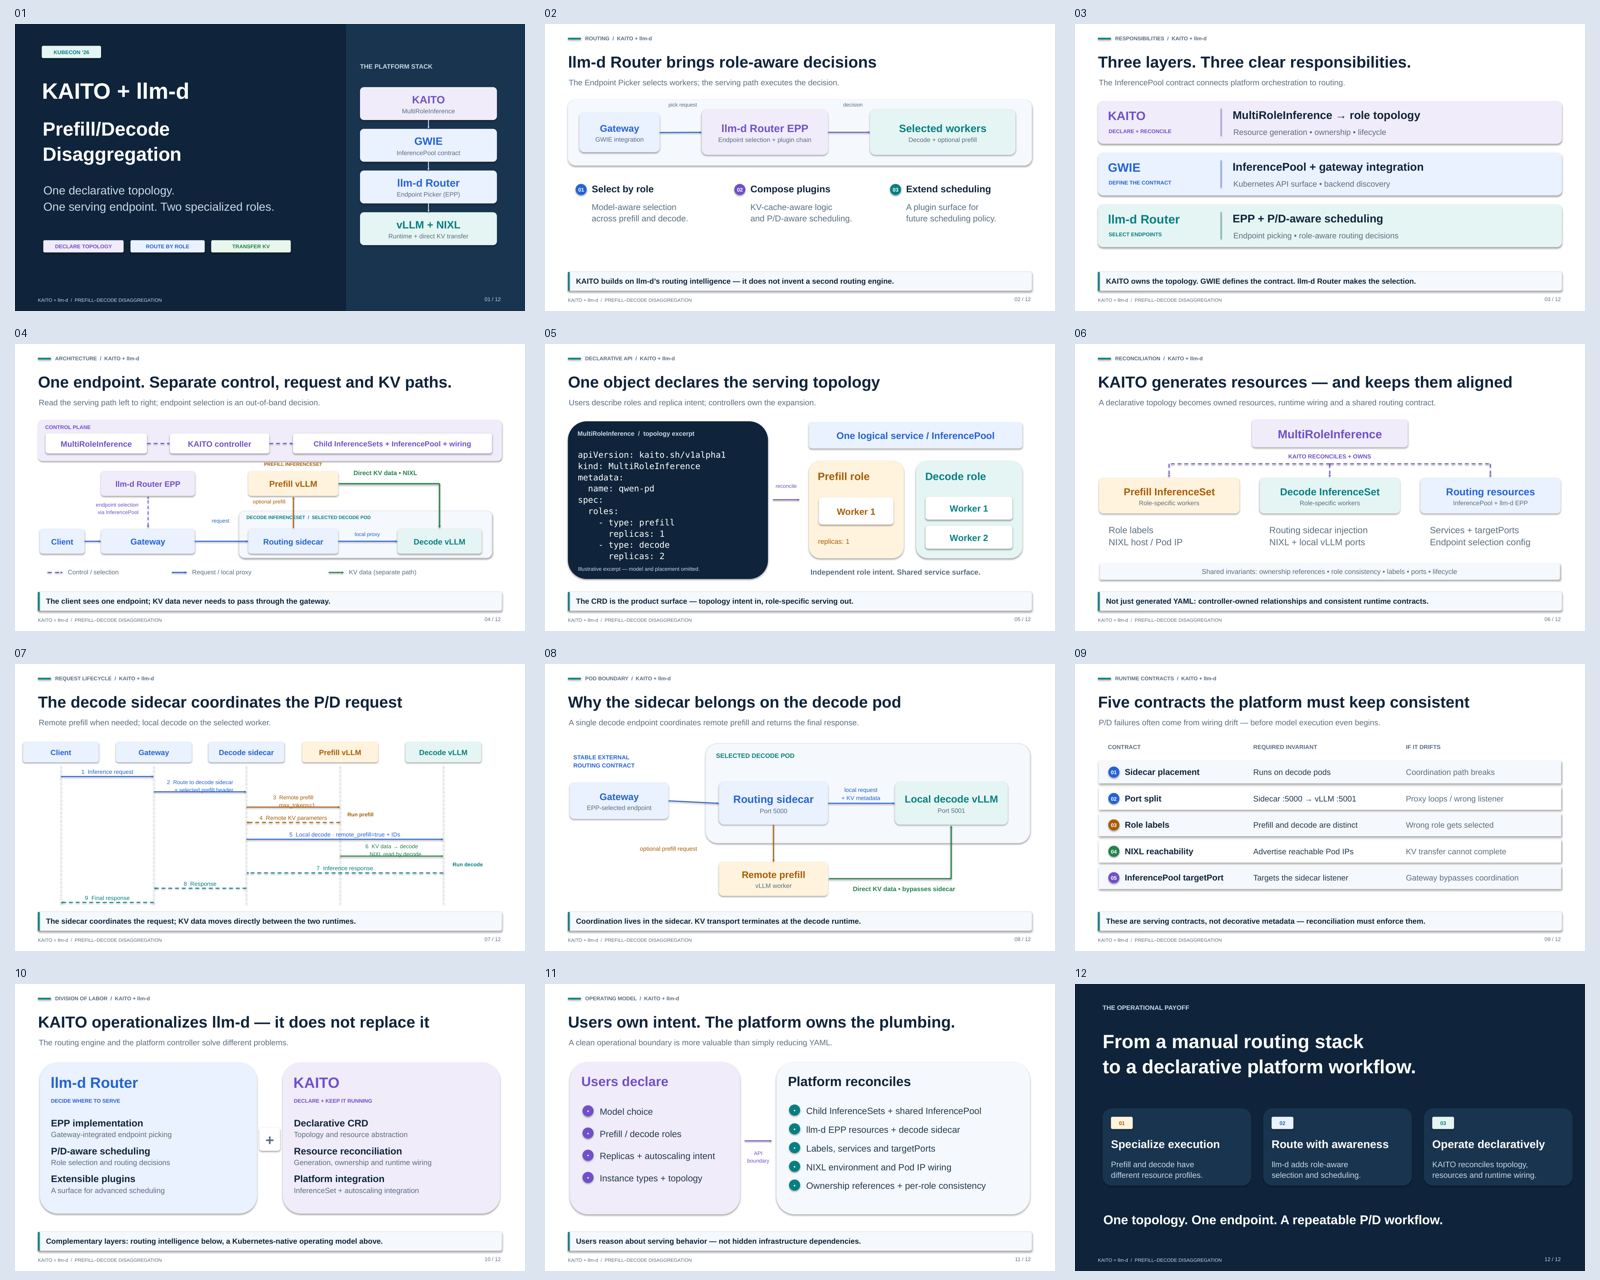
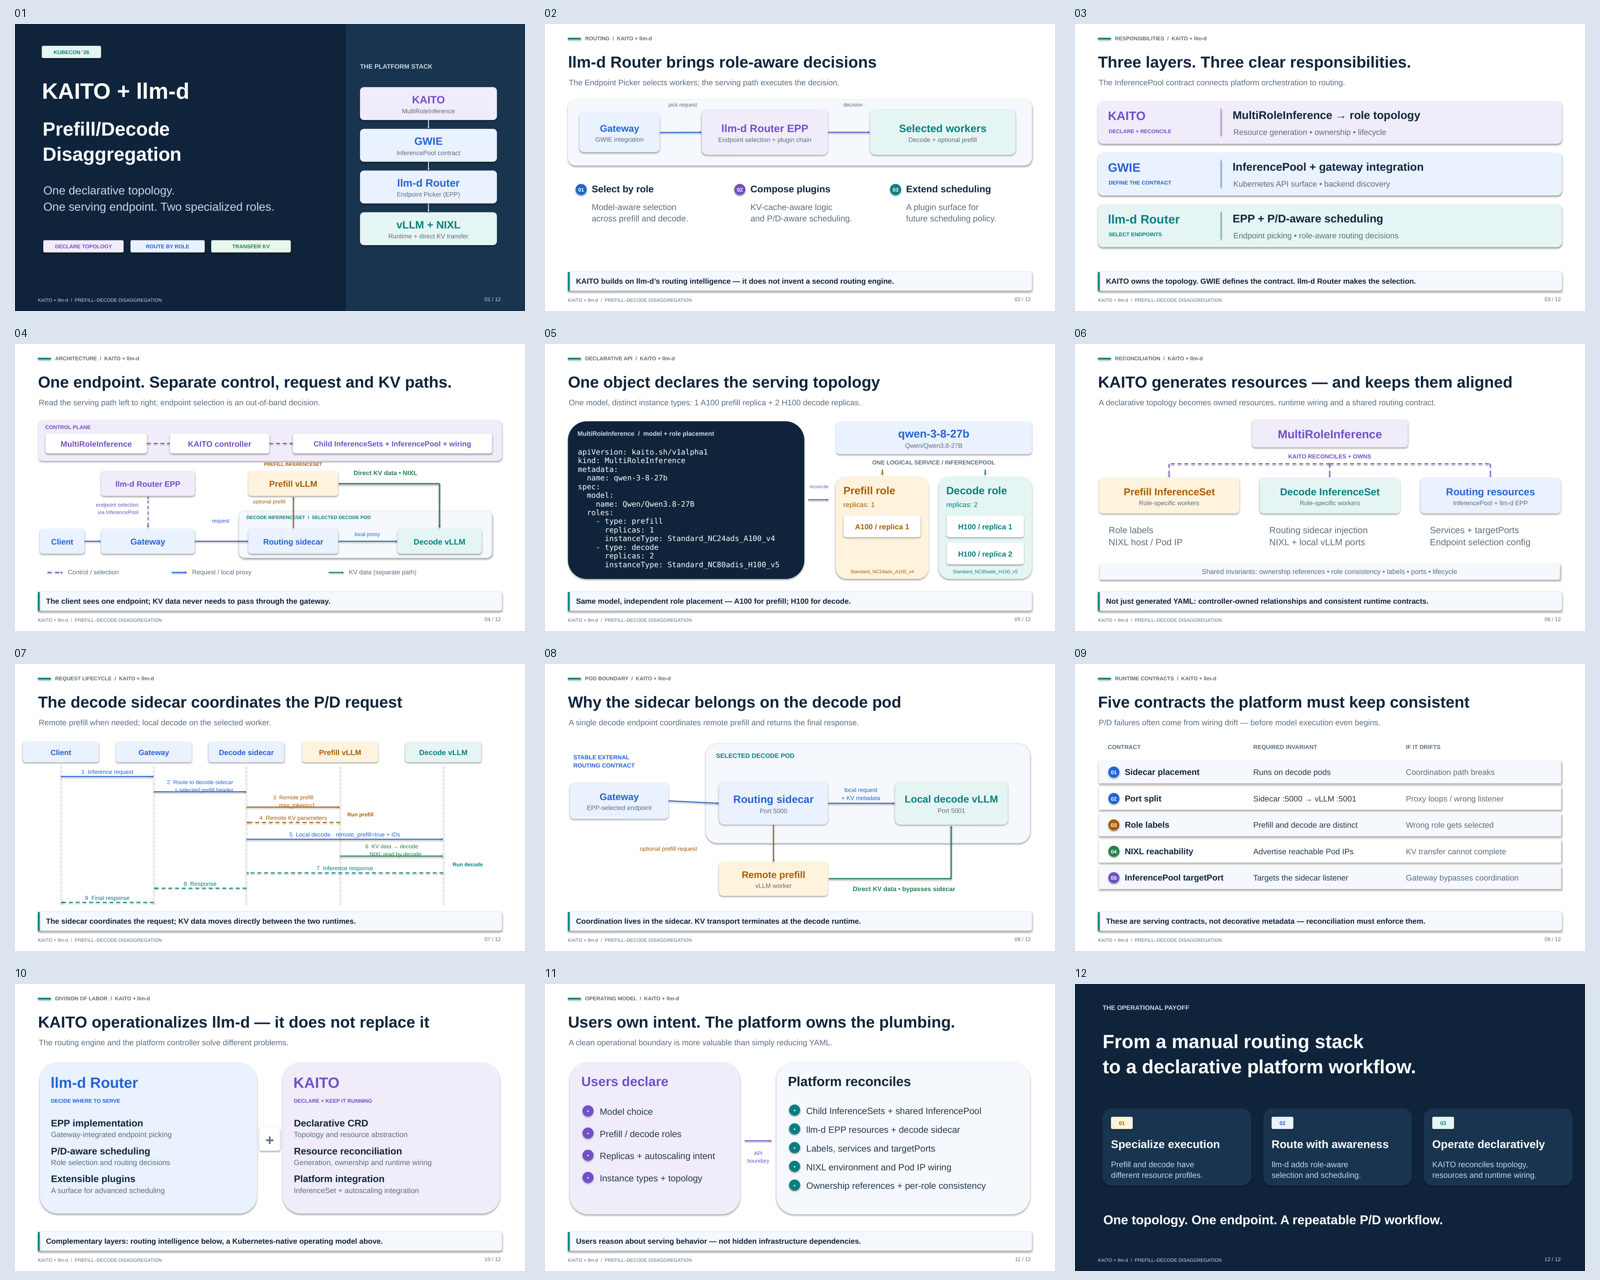
docs: update slide 5 with Qwen A100 prefill and H100 decode topology

Changed region(s): [[0.3438, 0.3125, 0.6562, 0.4688]]

diff --git a/llm/generate_kaito_llm_d_pd_slides.py b/llm/generate_kaito_llm_d_pd_slides.py
@@ -3,7 +3,7 @@
 
 Requires Python 3.10+ and python-pptx 1.0.2+. Run this file from any directory.
 No raster diagrams, external assets, or presentation application are required.
-The topology YAML is an explanatory excerpt, not a complete deployment manifest.
+The topology YAML is the user-supplied model/role example, not a deployment validation.
 """
 from __future__ import annotations
 
@@ -287,26 +287,33 @@ def architecture_slide():
 
 
 def topology_slide():
-    s = slide(5, "One object declares the serving topology", "Users describe roles and replica intent; controllers own the expansion.", "DECLARATIVE API")
-    shape(s, .6, 2.02, 5.23, 4.12, NAVY)
-    text(s, .85, 2.23, 4.7, .25, "MultiRoleInference  /  topology excerpt", 12, LIGHT_TEXT, True)
-    code = "apiVersion: kaito.sh/v1alpha1\nkind: MultiRoleInference\nmetadata:\n  name: qwen-pd\nspec:\n  roles:\n    - type: prefill\n      replicas: 1\n    - type: decode\n      replicas: 2"
-    text(s, .86, 2.75, 4.74, 2.97, code, 16, WHITE, font=MONO)
-    text(s, .86, 5.79, 4.65, .18, "Illustrative excerpt — model and placement omitted.", 10, LIGHT_TEXT)
-    path(s, [(5.96, 4.07), (6.66, 4.07)], PURPLE)
-    text(s, 5.91, 3.62, .79, .3, "reconcile", 10, PURPLE, align=PP_ALIGN.CENTER)
-    node(s, 6.9, 2.04, 5.58, .69, "One logical service / InferencePool", color=BLUE, fill=B_SOFT, size=18)
-    shape(s, 6.9, 3.05, 2.48, 2.55, A_SOFT)
-    shape(s, 9.7, 3.05, 2.78, 2.55, T_SOFT)
-    text(s, 7.13, 3.28, 2.05, .35, "Prefill role", 20, AMBER, True)
-    text(s, 9.94, 3.28, 2.28, .35, "Decode role", 20, TEAL, True)
-    node(s, 7.16, 4.01, 1.95, .71, "Worker 1", color=AMBER, fill=WHITE, size=17)
-    node(s, 9.95, 3.99, 2.27, .6, "Worker 1", color=TEAL, fill=WHITE, size=17)
-    node(s, 9.95, 4.75, 2.27, .6, "Worker 2", color=TEAL, fill=WHITE, size=17)
-    text(s, 7.14, 5.04, 2.04, .24, "replicas: 1", 13, AMBER)
-    text(s, 6.94, 5.83, 5.48, .27, "Independent role intent. Shared service surface.", 14, MUTED, True)
-    takeaway(s, "The CRD is the product surface — topology intent in, role-specific serving out.")
-    notes(s, "This is a topology excerpt, not apply-ready YAML. Model configuration, placement and other required fields are omitted for focus. The original example has one prefill replica and two decode replicas. Replica cards are illustrative workers; an InferenceSet remains the controller-managed abstraction for each role.")
+    s = slide(5, "One object declares the serving topology", "One model, distinct instance types: 1 A100 prefill replica + 2 H100 decode replicas.", "DECLARATIVE API")
+    shape(s, .6, 2.02, 6.18, 4.12, NAVY)
+    text(s, .85, 2.23, 5.68, .25, "MultiRoleInference  /  model + role placement", 12, LIGHT_TEXT, True)
+    code = "apiVersion: kaito.sh/v1alpha1\nkind: MultiRoleInference\nmetadata:\n  name: qwen-3-8-27b\nspec:\n  model:\n    name: Qwen/Qwen3.8-27B\n  roles:\n    - type: prefill\n      replicas: 1\n      instanceType: Standard_NC24ads_A100_v4\n    - type: decode\n      replicas: 2\n      instanceType: Standard_NC80adis_H100_v5"
+    code_box = text(s, .86, 2.7, 5.68, 3.25, code, 14, WHITE, font=MONO)
+    for paragraph in code_box.text_frame.paragraphs:
+        paragraph.line_spacing = Pt(16.3)
+        paragraph.space_after = Pt(0)
+    path(s, [(6.88, 4.07), (7.42, 4.07)], PURPLE)
+    text(s, 6.8, 3.64, .73, .3, "reconcile", 9, PURPLE, align=PP_ALIGN.CENTER)
+    node(s, 7.6, 2.02, 5.13, .86, "qwen-3-8-27b", "Qwen/Qwen3.8-27B", color=BLUE, fill=B_SOFT, size=21)
+    text(s, 7.63, 3.0, 5.07, .24, "ONE LOGICAL SERVICE / INFERENCEPOOL", 11, MUTED, True, PP_ALIGN.CENTER)
+    shape(s, 7.6, 3.47, 2.43, 2.67, A_SOFT)
+    shape(s, 10.29, 3.47, 2.44, 2.67, T_SOFT)
+    text(s, 7.8, 3.65, 2.03, .35, "Prefill role", 20, AMBER, True)
+    text(s, 10.49, 3.65, 2.04, .35, "Decode role", 20, TEAL, True)
+    text(s, 7.8, 4.08, 2.03, .24, "replicas: 1", 13, AMBER)
+    text(s, 10.49, 4.08, 2.04, .24, "replicas: 2", 13, TEAL)
+    node(s, 7.81, 4.48, 2.01, .57, "A100 / replica 1", color=AMBER, fill=WHITE, size=14)
+    node(s, 10.5, 4.48, 2.02, .57, "H100 / replica 1", color=TEAL, fill=WHITE, size=14)
+    node(s, 10.5, 5.19, 2.02, .57, "H100 / replica 2", color=TEAL, fill=WHITE, size=14)
+    text(s, 7.73, 5.87, 2.17, .18, "Standard_NC24ads_A100_v4", 9, AMBER, align=PP_ALIGN.CENTER)
+    text(s, 10.42, 5.87, 2.18, .18, "Standard_NC80adis_H100_v5", 9, TEAL, align=PP_ALIGN.CENTER)
+    path(s, [(8.82, 3.28), (8.82, 3.43)], AMBER)
+    path(s, [(11.51, 3.28), (11.51, 3.43)], TEAL)
+    takeaway(s, "Same model, independent role placement — A100 for prefill; H100 for decode.")
+    notes(s, "User-supplied example: kaito.sh/v1alpha1 MultiRoleInference named qwen-3-8-27b, model Qwen/Qwen3.8-27B. The prefill role has replicas: 1 and instanceType: Standard_NC24ads_A100_v4; the decode role has replicas: 2 and instanceType: Standard_NC80adis_H100_v5. The diagram shows role replicas, not the number of GPUs in each VM. Model and SKU identifiers are reproduced as provided; model availability, installed CRD schema, deployment prerequisites, quota and regional SKU support have not been validated by this presentation edit. Replica cards are illustrative workers; each role is managed through its own InferenceSet.")
 
 
 def resources_slide():

diff --git a/llm/kaito-llm-d-pd-slides-assets/README.md b/llm/kaito-llm-d-pd-slides-assets/README.md
@@ -24,7 +24,7 @@ The script writes the PPTX next to itself, so it can also be run from another wo
 - Green: direct KV data transfer between runtimes, separate from HTTP coordination.
 - Dashed lines: control relationships or response messages, as identified by each diagram.
 
-The request sequence distinguishes **KV data direction** (prefill → decode) from the **read initiator** (decode). Speaker notes include technical context, diagram omissions, the upstream sequence reference and deployment-specific port caveats. The topology YAML is explicitly an excerpt, not an apply-ready manifest.
+The request sequence distinguishes **KV data direction** (prefill → decode) from the **read initiator** (decode). Speaker notes include technical context, diagram omissions, the upstream sequence reference and deployment-specific port caveats. Slide 5 reproduces the user-supplied `qwen-3-8-27b` / `Qwen/Qwen3.8-27B` example, with one prefill replica on `Standard_NC24ads_A100_v4` and two decode replicas on `Standard_NC80adis_H100_v5`. Its diagram shows **role replica counts**, not GPU counts per VM. The example is not a deployment validation; model availability, installed CRD schema, quota and regional SKU support must be checked separately.
 
 ## Historical assets
 
